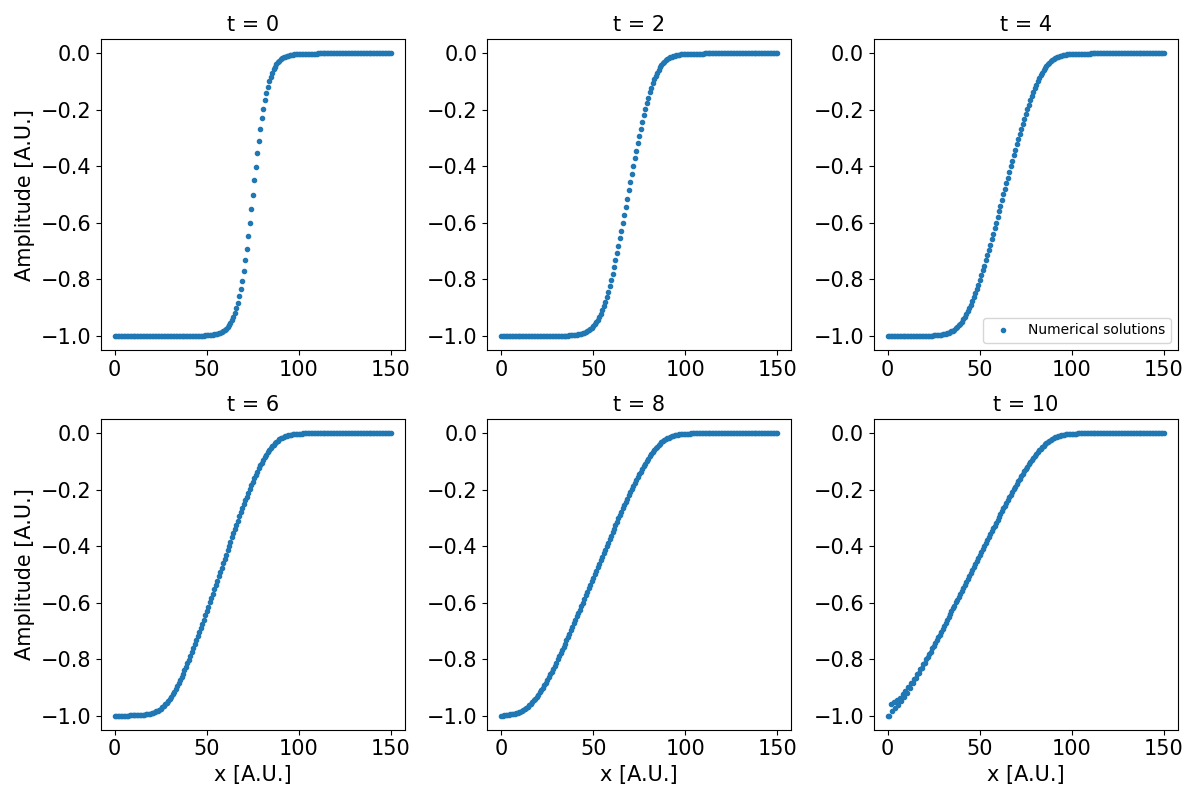
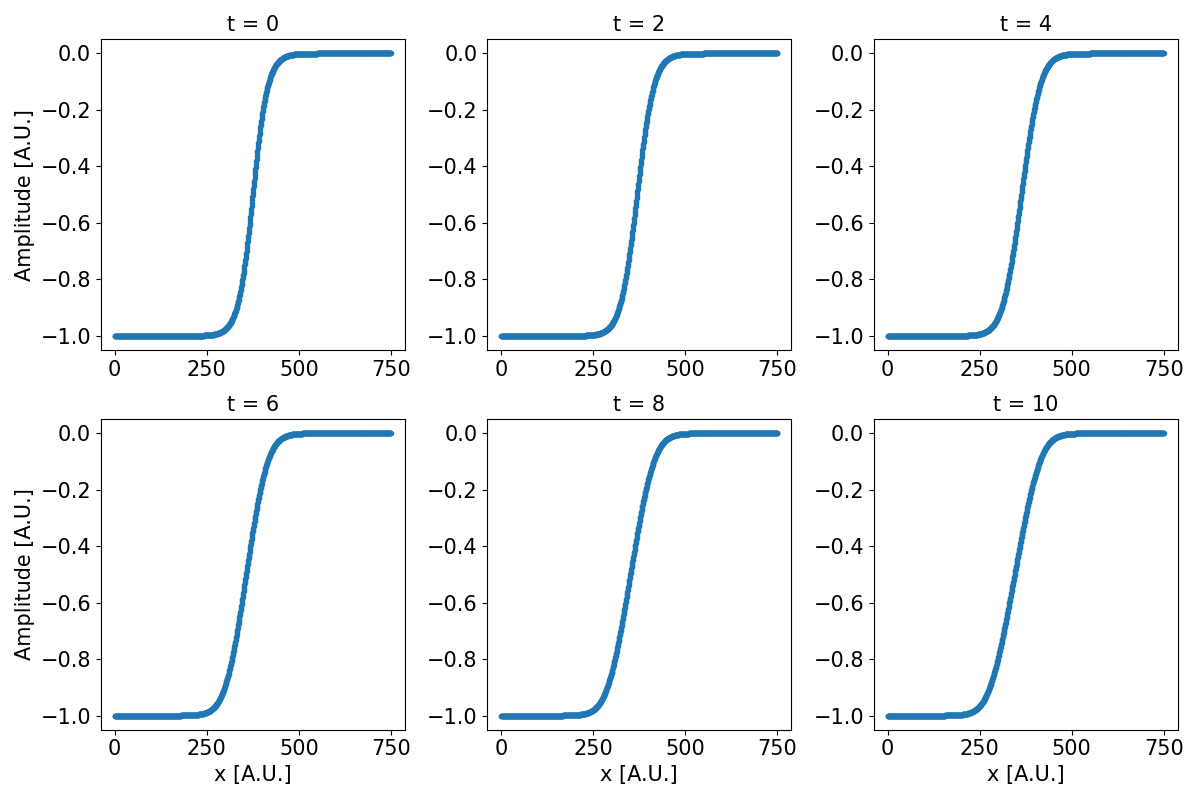
Added comments to the code

diff --git a/kink.py b/kink.py
@@ -6,7 +6,7 @@ import matplotlib.pyplot as plt
 
 # Define constants
 Delta_x = 0.8                 # Spatial step size
-X_max = 150                    # System length
+X_max = 750                  # System length
 x_size = int(X_max / Delta_x)  # Number of spatial steps
 
 Delta_t = 0.0002                # Time step size
@@ -17,12 +17,12 @@ t_size = int(T_max / Delta_t)  # Number of time steps
 u = np.zeros([x_size, t_size], dtype=float)
 
 # define the kink initial conditions
-def kink(x,x0,sig=8):
+def kink(x,x0,sig=40):
     return -0.5*(1-np.tanh((x-x0)/sig))
 
 # Initialize start condition
 x_series = np.linspace(0, X_max, x_size)  # Positions
-u[:, 0] = np.array([kink(x,75) for x in x_series])  # kink at t=0
+u[:, 0] = np.array([kink(x,X_max/2) for x in x_series])  # kink at t=0
 
 # Solve the KdV equation
 u_solution = KdV_Solver(u, Delta_x, Delta_t, bounds=(-1,0), eps=6) # Solutions for time up to T_max

diff --git a/double_solitons.py b/double_solitons.py
@@ -18,7 +18,7 @@ u = np.zeros([x_size, t_size], dtype=float)
 
 # Initialize start condition
 x_series = np.linspace(0, X_max, x_size)  # Positions
-u[:, 0] = np.array([soliton_solution(x, t=0,c=0.5, x0=20.)+soliton_solution(x,t=0,c=3,x0=10.) for x in x_series])  # Soliton at t0
+u[:, 0] = np.array([soliton_solution(x, t=0,c=0.5, x0=20.)+soliton_solution(x,t=0,c=3,x0=10.) for x in x_series])  # Two solitons at t0
 
 # Solve the KdV equation
 u_solution = KdV_Solver(u, Delta_x, Delta_t) # Solutions for time up to T_max

diff --git a/burgers.py b/burgers.py
@@ -23,7 +23,7 @@ def gaussian(x, mu, sig):
     )
 
 # Initialize start condition
-x_series = np.linspace(0, X_max, x_size)  # Positions                                 # Initial time
+x_series = np.linspace(0, X_max, x_size)  # Positions                               w
 u[:, 0] = np.array([gaussian(x, X_max/2, 8) for x in x_series])  # gaussian at t0
 
 # Solve the KdV equation

diff --git a/double_solitons_plot.py b/double_solitons_plot.py
@@ -32,6 +32,7 @@ for i, ax in enumerate(axes.flat):
         ax.tick_params(axis='both', labelsize=15)  
         '''
 
+#plot a colormap
 plt.imshow(u_solution, extent=[0, param[1], 0, param[0]], aspect='auto',origin='lower')
 plt.ylabel('x [A.U.]', fontsize = 15)
 plt.xlabel('t [A.U.]', fontsize = 15)

diff --git a/kink_plot.py b/kink_plot.py
@@ -31,5 +31,5 @@ for i, ax in enumerate(axes.flat):
 
 # To prevent overlap
 plt.tight_layout()
-plt.savefig("Figures//kink2.png")
+plt.savefig("Figures//kink3.png")
 plt.show()
